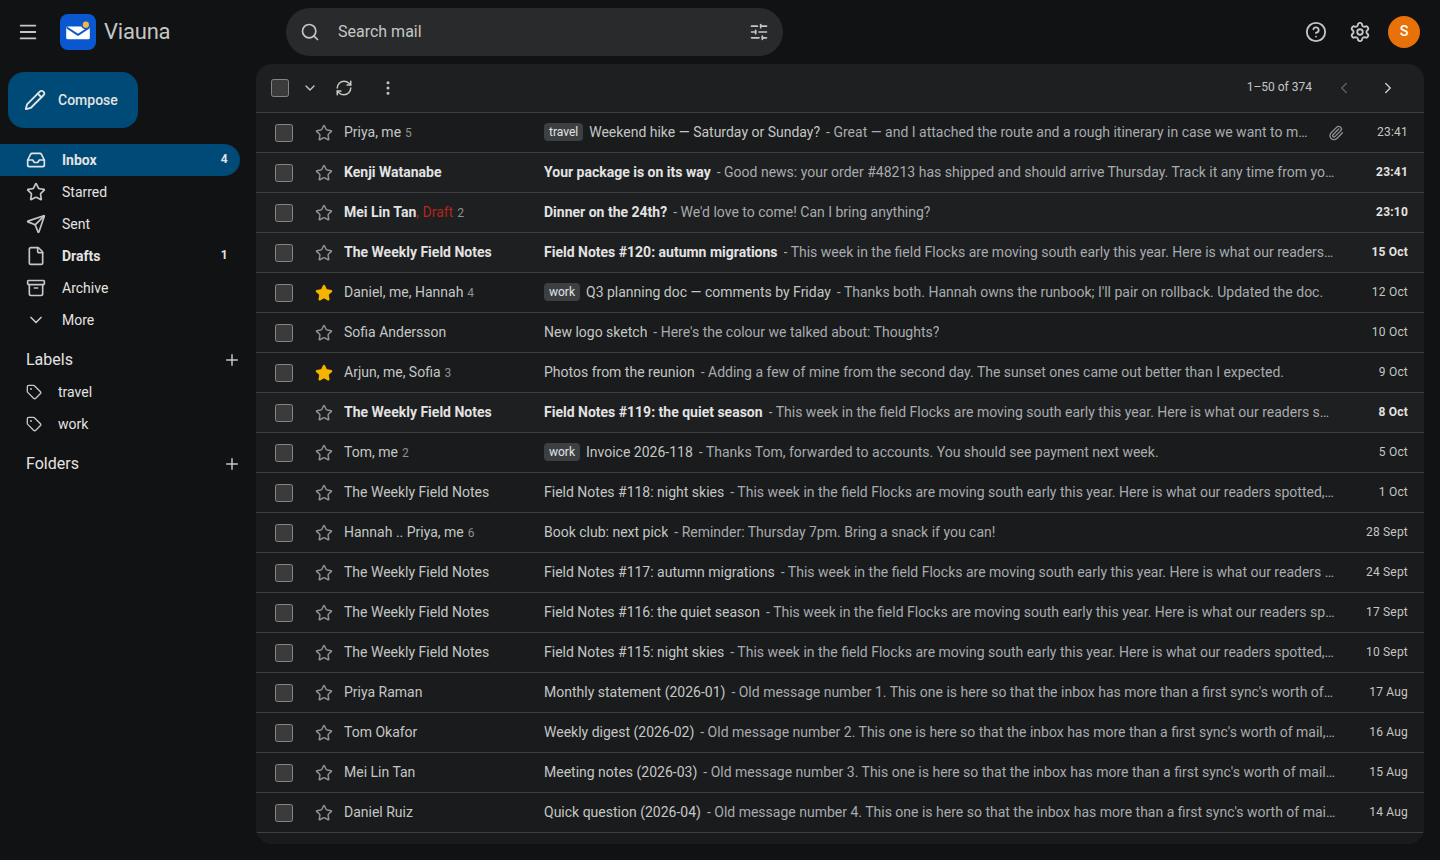
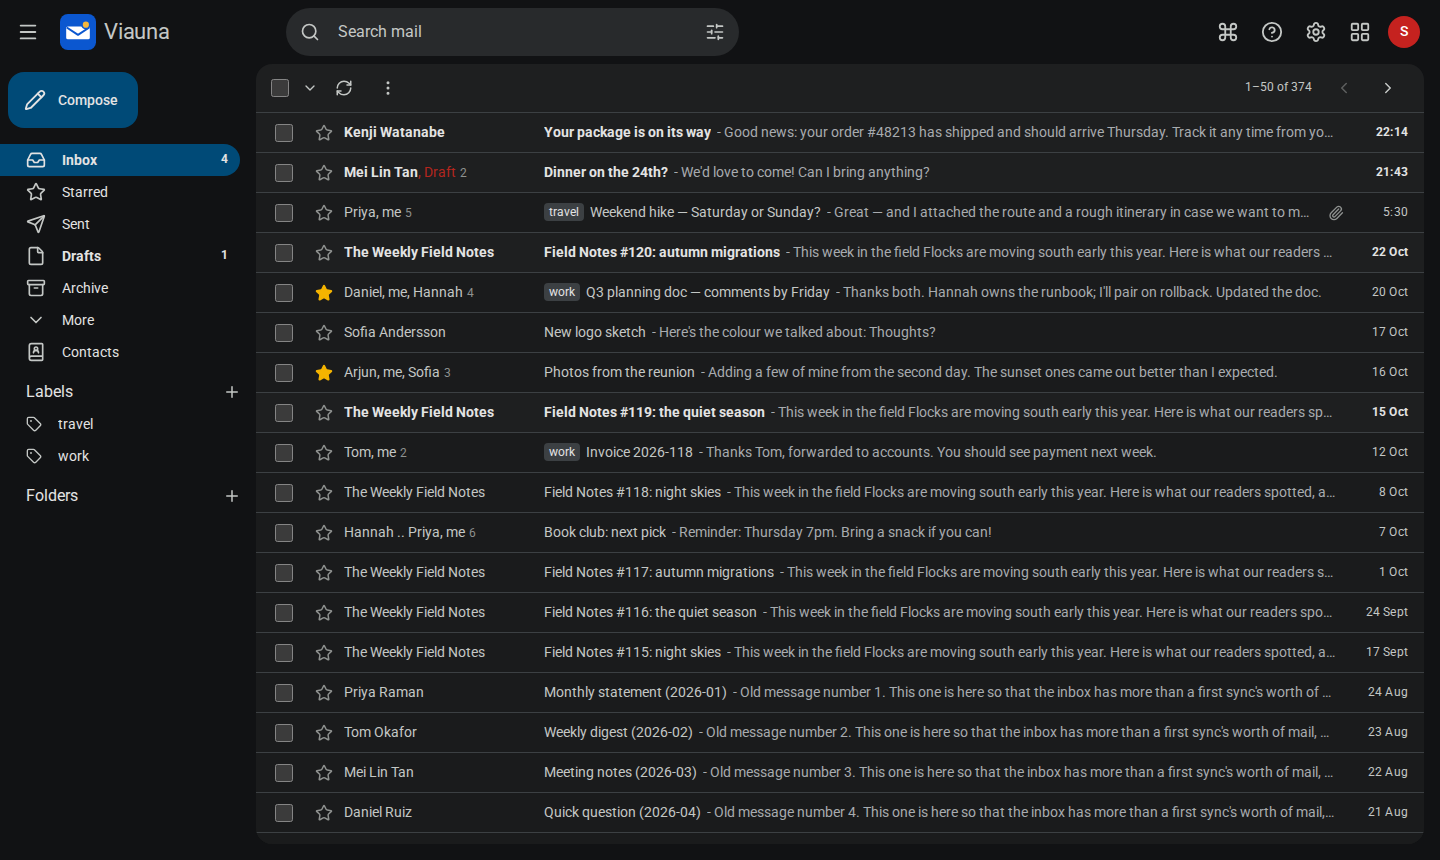
Docs: ready for 0.6
- Screenshots taken again on today's Viauna (the apps button and the command menu were
  missing from them), from a freshly seeded mailbox, and a new one of the calendar's week,
  in the README and on the docs' home page.
- README: the calendar as 0.6 has it (repeats, reminders, invitations, Birthdays, calendars
  from the web, secret addresses), and send-as addresses confirmed. Docs' home page: cards
  for the calendar and contacts, and for filters.
- Architecture: Calendars built, and rows for invitations, reminders and sending as other
  addresses, with their alternatives.
- Upgrading: what to do from 0.5 to 0.6 (back up, confirm send-as addresses or
  SEND_AS=server, the paths a login in front must let through, the sender, the switches).
- Changelog: a summary line for the release, and three paragraphs rewrapped.

diff --git a/CHANGELOG.md b/CHANGELOG.md
@@ -9,6 +9,10 @@ its notes before moving to it. A patch release (0.2.0 to 0.2.1) only fixes thing
 
 ## Unreleased
 
+A calendar for each mailbox, with repeating events, reminders and invitations any
+calendar app understands; labels and birthdays in contacts; and addresses you send as,
+shown to be yours before mail goes out from them.
+
 ### Calendar
 
 Each mailbox has calendars, as many as you like, kept by Viauna in standard iCalendar
@@ -17,10 +21,9 @@ week, month, schedule and 4-day views; click or drag on the calendar to make an 
 drag to move it, and Undo; each event's card has **Join video call** for its link;
 search; and **Create event** in a message's menu, with a link back to the email.
 
-Repeating events (daily, weekly on chosen days, monthly
-on a date or a weekday, yearly, until a date or so many times), and changed or deleted
-as this event, this and following events, or all events. A rule another app wrote is
-kept as it is.
+Repeating events (daily, weekly on chosen days, monthly on a date or a weekday, yearly,
+until a date or so many times), and changed or deleted as this event, this and following
+events, or all events. A rule another app wrote is kept as it is.
 
 Time zones done right: times are shown in your zone (Settings > Calendar), with a second
 zone beside them if you like; an event can be in a zone of its own, with its end in
@@ -55,13 +58,12 @@ event. Cards also bring your calendar up to date with a newer version, remove a 
 event, add an `.ics` file's events, and, for events you organise, count a guest's answer.
 The calendar shows your answer: outlined until you answer, striped for maybe, struck
 through for no. Nothing in an email changes your calendar until you press its card's
-button. **Invite people** to
-your events: add guests in the editor, and Viauna emails them standard invitations (it
-asks first), updates when you change or move the event, and cancellations when you take
-someone off or delete it. Their answers are counted from their cards. Between mailboxes on
-the same Viauna server, an event someone has answered stays in step both ways: their
-answer reaches the organiser's event at once, and the organiser's changes, or its
-cancellation, reach their calendar.
+button. **Invite people** to your events: add guests in the editor, and Viauna emails
+them standard invitations (it asks first), updates when you change or move the event, and
+cancellations when you take someone off or delete it. Their answers are counted from
+their cards. Between mailboxes on the same Viauna server, an event someone has answered
+stays in step both ways: their answer reaches the organiser's event at once, and the
+organiser's changes, or its cancellation, reach their calendar.
 
 **A secret address** for any calendar, so another app (your phone, Outlook, another
 calendar) can show it read-only: the whole calendar, or only "Busy" at the times you're
@@ -146,18 +148,17 @@ with only the confirmed addresses the first time its mailbox is used. On Mailu, 
 server that refuses senders a login doesn't own, `SEND_AS=server` confirms them without
 codes, as people use them.
 
-Otherwise, nothing you have to do: the calendar's tables are made on the first start, and it's on. The same
-start finds the labels, nicknames and dates in the contacts already kept. For reminders by
-email, give Viauna a mailbox to send from: see
-[Viauna's own sender](https://bryanthomaschen.github.io/viauna/self-hosting/configuration#viauna-s-own-sender).
+Otherwise, nothing you have to do: the calendar's tables are made on the first start, and
+it's on. The same start finds the labels, nicknames and dates in the contacts already
+kept. For reminders by email, give Viauna a mailbox to send from: see [Viauna's own
+sender](https://bryanthomaschen.github.io/viauna/self-hosting/configuration#viauna-s-own-sender).
 If you put a login of your own in front of Viauna, leave `/ical/`, `/sw.js`, the manifest
-and the icons out of it: see
-[Reverse proxy](https://bryanthomaschen.github.io/viauna/self-hosting/reverse-proxy). Calendars
+and the icons out of it: see [Reverse
+proxy](https://bryanthomaschen.github.io/viauna/self-hosting/reverse-proxy). Calendars
 are kept in the state store and nowhere else, so back up `state.db` (or your
-`DATABASE_URL` database) as the
-[upgrading page](https://bryanthomaschen.github.io/viauna/self-hosting/upgrading#backing-up)
-says. Turn the calendar off with `CALENDAR=false` or from the admin page.
-
+`DATABASE_URL` database) as the [upgrading
+page](https://bryanthomaschen.github.io/viauna/self-hosting/upgrading#backing-up) says.
+Turn the calendar off with `CALENDAR=false` or from the admin page.
 ## 0.5.0 - 2026-10-21
 
 Filters and a vacation responder, kept on your mail server so they work with Viauna

diff --git a/README.md b/README.md
@@ -40,16 +40,20 @@ works with the mail server you already run.
   inline with the quoted text tucked behind `•••`; recipient autocomplete from people
   you correspond with, rich text, pasted images, drag-and-drop attachments, drafts
   autosaved to your server's Drafts folder.
-- **Several accounts at once** with an account switcher (`/u/0`, `/u/1`, …) and
-  "send mail as" aliases.
+- **Several accounts at once** with an account switcher (`/u/0`, `/u/1`, …), and
+  "send mail as" addresses, each confirmed by your mail server or by a code emailed to it,
+  even at another provider through its own mail server.
 - **Filters and a vacation responder**, kept on your mail server as Sieve
   so they run as mail arrives, in every app.
 - **Contacts**: an address book per mailbox, vCard import and export (from Google Contacts,
   Apple Contacts, Thunderbird, Roundcube), suggestions from it as you write, and optional
   two-way sync with your CardDAV server.
 - **Calendars**: as many per mailbox as you like, kept by Viauna in standard iCalendar;
-  day, week, month, schedule and 4-day views; drag to make and move events; time zones
-  done right; events made from an email.
+  day, week, month, schedule and 4-day views; drag to make and move events; repeating
+  events and time zones done right; reminders on the page, with Viauna closed, or by
+  email; invitations any calendar app understands, sent and answered; a Birthdays
+  calendar from your contacts, calendars from the web, a secret address for another app,
+  and `.ics` import and export.
 - **An admin page** for whoever runs it: who can sign in, limits, password changes,
   changed without a restart and with a record of who changed what. The same from the
   command line, or all of it from environment variables.
@@ -65,6 +69,8 @@ works with the mail server you already run.
 |---|---|
 | ![Conversation](docs/screenshots/conversation.png) | ![Compose](docs/screenshots/compose.png) |
 | ![Dark mode](docs/screenshots/dark.png) | ![Phone](docs/screenshots/mobile.png) |
+
+![Calendar](docs/screenshots/calendar.png)
 
 ## Quick start
 

diff --git a/docs/self-hosting/upgrading.md b/docs/self-hosting/upgrading.md
@@ -63,6 +63,25 @@ long as the data volume and the secret are kept.
 The version you're running is shown at the foot of the sign-in page, and by
 `docker exec viauna viauna version`.
 
+### From 0.5 to 0.6
+
+- **Back up `state.db` first** (or your `DATABASE_URL` database): calendars, like contacts,
+  are kept there and nowhere else. The new tables are made on the first start.
+- **"Send mail as" addresses need confirming again.** Each mailbox's addresses are kept,
+  but nothing is sent from one until it's confirmed, by a code emailed to it. On Mailu,
+  mailcow or another server that refuses senders a login doesn't own, set
+  `SEND_AS=server` and your mail server's yes confirms them instead, with no codes. Tell
+  the people who use them. See [Sending as other addresses](../how-it-works/sending.md).
+- **A login in front of Viauna** must let `/ical/` (secret calendar addresses), `/sw.js`,
+  the manifest and the icons through. See [Reverse proxy](./reverse-proxy.md).
+- **Reminders by email** need a mailbox for Viauna to send from: see
+  [Viauna's own sender](./configuration.md#viauna-s-own-sender). Without one, reminders
+  still show on the page and in the browser.
+- The calendar and its parts are on by default; turn any off with `CALENDAR`,
+  `CALENDAR_FEEDS`, `CALENDAR_SECRET_ADDRESSES` and `BROWSER_NOTIFICATIONS`, or from the
+  admin page. Sending through other providers' mail servers (`SEND_AS_SERVERS`) is off
+  until you turn it on.
+
 ### From 0.4 to 0.5
 
 Nothing to do. Filters and the vacation responder appear for mailboxes on your own mail

diff --git a/docs/index.md b/docs/index.md
@@ -22,10 +22,14 @@ features:
     details: Your replies, filed in Sent, sit under the message they answer, threaded by Message-ID and References.
   - title: Fast and live
     details: A local index makes lists, counts and paging instant. IMAP IDLE brings new Inbox mail to the open page within about a second.
+  - title: A calendar and contacts too
+    details: Calendars with repeating events, reminders and invitations any calendar app understands, and an address book that syncs with CardDAV.
   - title: Labels, not just folders
     details: Several labels per conversation, stored on the server as IMAP keywords, so Thunderbird and Apple Mail show them as tags.
   - title: Search the way you already do
     details: from:, has:attachment, older_than:1y, "exact phrase" and the rest, run on the server against its full-text index.
+  - title: Filters on your server
+    details: Rules that sort mail as it arrives, and a vacation responder, kept on your mail server as Sieve, so they run whether or not Viauna is open.
   - title: Keyboard friendly
     details: 'A command menu (⌘K or Ctrl+K) for every action, folder and setting by name, and single-key shortcuts if you turn them on.'
   - title: Safe by default
@@ -40,6 +44,8 @@ features:
 |---|---|
 | ![A conversation](./screenshots/conversation.png) | ![Writing a message](./screenshots/compose.png) |
 | ![Dark mode](./screenshots/dark.png) | ![On a phone](./screenshots/mobile.png) |
+
+![The calendar](./screenshots/calendar.png)
 
 ## One container, your mail server
 

diff --git a/docs/architecture.md b/docs/architecture.md
@@ -189,7 +189,10 @@ not built in.
 | Accounts, sessions, settings | SQLite in `DATA_DIR` | PostgreSQL, MySQL/MariaDB | — | built |
 | Password change | Off | Link to the mail server's own page; LDAP | Webhook, command | built; no vendor drivers yet |
 | Contacts | Viauna's database, vCard import/export | CardDAV sync, any server | — | built |
-| Calendars | Viauna's database, kept as iCalendar; .ics import and export | — | — | being built |
+| Calendars | Viauna's database, kept as iCalendar; .ics import and export | Calendars from the web by their address; a secret address for another app to read | — | built |
+| Invitations | Standard email invitations (iMIP), through the mailbox's own SMTP | — | — | built |
+| Reminders | On the page | The browser's push service (Web Push), with Viauna closed; email from `SENDER_ADDRESS` | — | built |
+| Sending as other addresses | A code emailed to the address, after the mail server is asked | The mail server's yes (`SEND_AS=server`); the address's own provider's SMTP (`SEND_AS_SERVERS`) | — | built |
 | Filters, vacation responder | On, kept on the mail server over ManageSieve | — | — | built |
 
 The database is chosen by `DATABASE_URL`, not the admin page, because the settings
